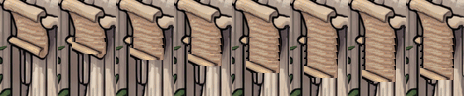
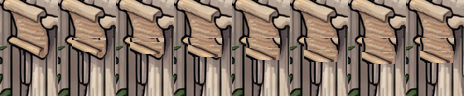
Syntax Citadel gate: rune boxes redrawn from the blue component bboxes so every string lights whole (no half-lit or edge-cut runes); scrolls unroll a modest 14px with the paper's own texture instead of a long ribbon. Stamp b20261110f.
Claude-Session: https://claude.ai/code/session_01Vj1nxmQmmwQb3qWB1ZfZZg

diff --git a/realm.html b/realm.html
@@ -7,10 +7,10 @@
 <meta name="theme-color" content="#16112b" />
 <title>Realm, ScoreQuest</title>
 <meta name="description" content="Walk the realm: a side-view stroll through one biome of the quest." />
-<link rel="stylesheet" href="css/style.css?v=b20261110e" />
+<link rel="stylesheet" href="css/style.css?v=b20261110f" />
 <link href="https://fonts.googleapis.com/css2?family=Pixelify+Sans:wght@400;600;700&display=swap" rel="stylesheet" />
-<link rel="stylesheet" href="assets/katex/katex.min.css?v=b20261110e" />
-<link rel="stylesheet" href="css/clash.css?v=b20261110e" />
+<link rel="stylesheet" href="assets/katex/katex.min.css?v=b20261110f" />
+<link rel="stylesheet" href="css/clash.css?v=b20261110f" />
 <link rel="icon" type="image/png" href="assets/logo.png" />
 </head>
 <body class="page-realm">
@@ -62,21 +62,21 @@
 </div>
 
 <script src="https://cdn.jsdelivr.net/npm/@supabase/supabase-js@2"></script>
-<script src="js/config.js?v=b20261110e"></script>
-<script src="js/auth.js?v=b20261110e"></script>
-<script src="js/paws.js?v=b20261110e"></script>
-<script src="js/sfx.js?v=b20261110e"></script>
-<script src="js/companion.js?v=b20261110e"></script>
-<script src="assets/katex/katex.min.js?v=b20261110e"></script>
-<script src="assets/katex/auto-render.min.js?v=b20261110e"></script>
-<script src="data/questions.js?v=b20261110e"></script>
-<script src="data/waypoints.js?v=b20261110e"></script>
-<script src="data/lessons.js?v=b20261110e"></script>
-<script src="js/figures.js?v=b20261110e"></script>
-<script src="js/questions.js?v=b20261110e"></script>
-<script src="js/qcard.js?v=b20261110e"></script>
-<script src="js/clash-arena.js?v=b20261110e"></script>
-<script src="js/clash-overlay.js?v=b20261110e"></script>
-<script src="js/realm.js?v=b20261110e"></script>
+<script src="js/config.js?v=b20261110f"></script>
+<script src="js/auth.js?v=b20261110f"></script>
+<script src="js/paws.js?v=b20261110f"></script>
+<script src="js/sfx.js?v=b20261110f"></script>
+<script src="js/companion.js?v=b20261110f"></script>
+<script src="assets/katex/katex.min.js?v=b20261110f"></script>
+<script src="assets/katex/auto-render.min.js?v=b20261110f"></script>
+<script src="data/questions.js?v=b20261110f"></script>
+<script src="data/waypoints.js?v=b20261110f"></script>
+<script src="data/lessons.js?v=b20261110f"></script>
+<script src="js/figures.js?v=b20261110f"></script>
+<script src="js/questions.js?v=b20261110f"></script>
+<script src="js/qcard.js?v=b20261110f"></script>
+<script src="js/clash-arena.js?v=b20261110f"></script>
+<script src="js/clash-overlay.js?v=b20261110f"></script>
+<script src="js/realm.js?v=b20261110f"></script>
 </body>
 </html>

diff --git a/js/realm.js b/js/realm.js
@@ -170,11 +170,11 @@
            blue runes round the arch and down both jambs glow, the gold emblem
            flares, and the two statues' scrolls unroll a hand's width
            (tools/make_scroll.py), rolling back up after he leaves */
-        { kind: 'frames', mode: 'rune', sheet: 'assets/fx/props/syntaxcitadel/archL.png', frames: 8, reach: 0.42, x: 0.80472, y: 0.00463, w: 0.08605, h: 0.24444, base: 0.243 },
-        { kind: 'frames', mode: 'rune', sheet: 'assets/fx/props/syntaxcitadel/archR.png', frames: 8, reach: 0.42, x: 0.88527, y: 0.00463, w: 0.06051, h: 0.24444, base: 0.243 },
+        { kind: 'frames', mode: 'rune', sheet: 'assets/fx/props/syntaxcitadel/archL.png', frames: 8, reach: 0.42, x: 0.82043, y: 0.00278, w: 0.06444, h: 0.14259, base: 0.139 },
+        { kind: 'frames', mode: 'rune', sheet: 'assets/fx/props/syntaxcitadel/archR.png', frames: 8, reach: 0.42, x: 0.87976, y: 0.00278, w: 0.05815, h: 0.25185, base: 0.248 },
         { kind: 'frames', mode: 'rune', sheet: 'assets/fx/props/syntaxcitadel/emblem.png', frames: 8, reach: 0.42, x: 0.86012, y: 0.0713, w: 0.04322, h: 0.09815, base: 0.163 },
-        { kind: 'frames', mode: 'rune', sheet: 'assets/fx/props/syntaxcitadel/colL.png', frames: 8, reach: 0.32, x: 0.82554, y: 0.20648, w: 0.022, h: 0.21852, base: 0.419 },
-        { kind: 'frames', mode: 'rune', sheet: 'assets/fx/props/syntaxcitadel/colR.png', frames: 8, reach: 0.32, x: 0.91081, y: 0.25741, w: 0.01925, h: 0.16759, base: 0.419 },
+        { kind: 'frames', mode: 'rune', sheet: 'assets/fx/props/syntaxcitadel/colL.png', frames: 8, reach: 0.32, x: 0.82633, y: 0.21204, w: 0.01807, h: 0.22407, base: 0.43 },
+        { kind: 'frames', mode: 'rune', sheet: 'assets/fx/props/syntaxcitadel/colR.png', frames: 8, reach: 0.32, x: 0.90963, y: 0.29722, w: 0.01493, h: 0.1, base: 0.391 },
         { kind: 'frames', mode: 'rune', sheet: 'assets/fx/props/syntaxcitadel/scroll1.png', frames: 8, reach: 0.3, x: 0.78743, y: 0.26667, w: 0.02279, h: 0.08889, base: 0.356 },
         { kind: 'frames', mode: 'rune', sheet: 'assets/fx/props/syntaxcitadel/scroll2.png', frames: 8, reach: 0.22, x: 0.90766, y: 0.38704, w: 0.02122, h: 0.1, base: 0.487 }
       ] },

diff --git a/clash.html b/clash.html
@@ -9,8 +9,8 @@
 <link rel="preconnect" href="https://fonts.googleapis.com" />
 <link rel="preconnect" href="https://fonts.gstatic.com" crossorigin />
 <link href="https://fonts.googleapis.com/css2?family=Pixelify+Sans:wght@400;600;700&display=swap" rel="stylesheet" />
-<link rel="stylesheet" href="assets/katex/katex.min.css?v=b20261110e" />
-<link rel="stylesheet" href="css/clash.css?v=b20261110e" />
+<link rel="stylesheet" href="assets/katex/katex.min.css?v=b20261110f" />
+<link rel="stylesheet" href="css/clash.css?v=b20261110f" />
 <style>
 :root {
   --bg: #efe9da; --card: #fffdf7; --ink: #2b2118; --muted: #6f6252; --line: #d9cfba;
@@ -131,16 +131,16 @@ body.focus .trail .here { display: none; }
 </main>
 
 <script defer src="https://cdn.jsdelivr.net/npm/@supabase/supabase-js@2"></script>
-<script defer src="assets/katex/katex.min.js?v=b20261110e"></script>
-<script defer src="assets/katex/auto-render.min.js?v=b20261110e"></script>
-<script defer src="js/config.js?v=b20261110e"></script>
-<script defer src="js/auth.js?v=b20261110e"></script>
-<script defer src="data/questions.js?v=b20261110e"></script>
-<script defer src="js/figures.js?v=b20261110e"></script>
-<script defer src="js/questions.js?v=b20261110e"></script>
-<script defer src="js/qcard.js?v=b20261110e"></script>
-<script defer src="js/clash-arena.js?v=b20261110e"></script>
-<script defer src="js/clash-ambient.js?v=b20261110e"></script>
-<script defer src="js/clash.js?v=b20261110e"></script>
+<script defer src="assets/katex/katex.min.js?v=b20261110f"></script>
+<script defer src="assets/katex/auto-render.min.js?v=b20261110f"></script>
+<script defer src="js/config.js?v=b20261110f"></script>
+<script defer src="js/auth.js?v=b20261110f"></script>
+<script defer src="data/questions.js?v=b20261110f"></script>
+<script defer src="js/figures.js?v=b20261110f"></script>
+<script defer src="js/questions.js?v=b20261110f"></script>
+<script defer src="js/qcard.js?v=b20261110f"></script>
+<script defer src="js/clash-arena.js?v=b20261110f"></script>
+<script defer src="js/clash-ambient.js?v=b20261110f"></script>
+<script defer src="js/clash.js?v=b20261110f"></script>
 </body>
 </html>

diff --git a/index.html b/index.html
@@ -13,7 +13,7 @@
    before first paint so navigation never flashes the marketing tabs */
 try { if (window.localStorage.getItem('sb-moasnmwcikwybriwaoip-auth-token')) document.documentElement.classList.add('is-authed'); } catch (e) {}
 </script>
-<link rel="stylesheet" href="css/style.css?v=b20261110e" />
+<link rel="stylesheet" href="css/style.css?v=b20261110f" />
 
 <link rel="icon" type="image/png" href="assets/logo.png" />
 </head>
@@ -479,16 +479,16 @@ try { if (window.localStorage.getItem('sb-moasnmwcikwybriwaoip-auth-token')) doc
 </footer>
 
 <script defer src="https://cdn.jsdelivr.net/npm/@supabase/supabase-js@2"></script>
-<script defer src="js/config.js?v=b20261110e"></script>
-<script defer src="js/auth.js?v=b20261110e"></script>
-<script defer src="js/usernav.js?v=b20261110e"></script>
-<script defer src="js/pixelworld.js?v=b20261110e"></script>
-<script defer src="js/game.js?v=b20261110e"></script>
-<script defer src="js/sfx.js?v=b20261110e"></script>
-<script defer src="data/questions.js?v=b20261110e"></script>
-<script defer src="js/questions.js?v=b20261110e"></script>
-<script defer src="js/map.js?v=b20261110e"></script>
-<script defer src="js/parents.js?v=b20261110e"></script>
-<script defer src="js/main.js?v=b20261110e"></script>
+<script defer src="js/config.js?v=b20261110f"></script>
+<script defer src="js/auth.js?v=b20261110f"></script>
+<script defer src="js/usernav.js?v=b20261110f"></script>
+<script defer src="js/pixelworld.js?v=b20261110f"></script>
+<script defer src="js/game.js?v=b20261110f"></script>
+<script defer src="js/sfx.js?v=b20261110f"></script>
+<script defer src="data/questions.js?v=b20261110f"></script>
+<script defer src="js/questions.js?v=b20261110f"></script>
+<script defer src="js/map.js?v=b20261110f"></script>
+<script defer src="js/parents.js?v=b20261110f"></script>
+<script defer src="js/main.js?v=b20261110f"></script>
 </body>
 </html>

diff --git a/boss.html b/boss.html
@@ -7,8 +7,8 @@
 <meta name="theme-color" content="#16112b" />
 <title>Boss fight, ScoreQuest</title>
 <meta name="description" content="The guardian at the end of the realm. Answer true, strike true." />
-<link rel="stylesheet" href="assets/katex/katex.min.css?v=b20261110e" />
-<link rel="stylesheet" href="css/style.css?v=b20261110e" />
+<link rel="stylesheet" href="assets/katex/katex.min.css?v=b20261110f" />
+<link rel="stylesheet" href="css/style.css?v=b20261110f" />
 <link rel="icon" type="image/png" href="assets/logo.png" />
 </head>
 <body class="page-boss">
@@ -118,16 +118,16 @@
 </div>
 
 <script src="https://cdn.jsdelivr.net/npm/@supabase/supabase-js@2"></script>
-<script src="js/config.js?v=b20261110e"></script>
-<script src="js/auth.js?v=b20261110e"></script>
-<script src="js/sfx.js?v=b20261110e"></script>
-<script src="js/companion.js?v=b20261110e"></script>
-<script src="assets/katex/katex.min.js?v=b20261110e"></script>
-<script src="assets/katex/auto-render.min.js?v=b20261110e"></script>
-<script src="data/questions.js?v=b20261110e"></script>
-<script src="js/figures.js?v=b20261110e"></script>
-<script src="js/questions.js?v=b20261110e"></script>
-<script src="js/qcard.js?v=b20261110e"></script>
-<script src="js/boss.js?v=b20261110e"></script>
+<script src="js/config.js?v=b20261110f"></script>
+<script src="js/auth.js?v=b20261110f"></script>
+<script src="js/sfx.js?v=b20261110f"></script>
+<script src="js/companion.js?v=b20261110f"></script>
+<script src="assets/katex/katex.min.js?v=b20261110f"></script>
+<script src="assets/katex/auto-render.min.js?v=b20261110f"></script>
+<script src="data/questions.js?v=b20261110f"></script>
+<script src="js/figures.js?v=b20261110f"></script>
+<script src="js/questions.js?v=b20261110f"></script>
+<script src="js/qcard.js?v=b20261110f"></script>
+<script src="js/boss.js?v=b20261110f"></script>
 </body>
 </html>

diff --git a/practice.html b/practice.html
@@ -10,8 +10,8 @@
 <script>
 try { if (window.localStorage.getItem('sb-moasnmwcikwybriwaoip-auth-token')) document.documentElement.classList.add('is-authed'); } catch (e) {}
 </script>
-<link rel="stylesheet" href="css/style.css?v=b20261110e" />
-<link rel="stylesheet" href="assets/katex/katex.min.css?v=b20261110e" />
+<link rel="stylesheet" href="css/style.css?v=b20261110f" />
+<link rel="stylesheet" href="assets/katex/katex.min.css?v=b20261110f" />
 <link rel="icon" type="image/png" href="assets/logo.png" />
 </head>
 <body class="page-map page-practice">
@@ -106,14 +106,14 @@ try { if (window.localStorage.getItem('sb-moasnmwcikwybriwaoip-auth-token')) doc
 </main>
 
 <script defer src="https://cdn.jsdelivr.net/npm/@supabase/supabase-js@2"></script>
-<script defer src="assets/katex/katex.min.js?v=b20261110e"></script>
-<script defer src="assets/katex/auto-render.min.js?v=b20261110e"></script>
-<script defer src="js/config.js?v=b20261110e"></script>
-<script defer src="js/auth.js?v=b20261110e"></script>
-<script defer src="js/usernav.js?v=b20261110e"></script>
-<script defer src="data/questions.js?v=b20261110e"></script>
-<script defer src="js/figures.js?v=b20261110e"></script>
-<script defer src="js/questions.js?v=b20261110e"></script>
-<script defer src="js/practice.js?v=b20261110e"></script>
+<script defer src="assets/katex/katex.min.js?v=b20261110f"></script>
+<script defer src="assets/katex/auto-render.min.js?v=b20261110f"></script>
+<script defer src="js/config.js?v=b20261110f"></script>
+<script defer src="js/auth.js?v=b20261110f"></script>
+<script defer src="js/usernav.js?v=b20261110f"></script>
+<script defer src="data/questions.js?v=b20261110f"></script>
+<script defer src="js/figures.js?v=b20261110f"></script>
+<script defer src="js/questions.js?v=b20261110f"></script>
+<script defer src="js/practice.js?v=b20261110f"></script>
 </body>
 </html>

diff --git a/map.html b/map.html
@@ -12,7 +12,7 @@
    before first paint so navigation never flashes the marketing tabs */
 try { if (window.localStorage.getItem('sb-moasnmwcikwybriwaoip-auth-token')) document.documentElement.classList.add('is-authed'); } catch (e) {}
 </script>
-<link rel="stylesheet" href="css/style.css?v=b20261110e" />
+<link rel="stylesheet" href="css/style.css?v=b20261110f" />
 <link rel="icon" type="image/png" href="assets/logo.png" />
 </head>
 <body class="page-map">
@@ -49,15 +49,15 @@ try { if (window.localStorage.getItem('sb-moasnmwcikwybriwaoip-auth-token')) doc
 </main>
 
 <script src="https://cdn.jsdelivr.net/npm/@supabase/supabase-js@2"></script>
-<script src="js/config.js?v=b20261110e"></script>
-<script src="js/auth.js?v=b20261110e"></script>
-<script src="js/usernav.js?v=b20261110e"></script>
-<script src="js/pixelworld.js?v=b20261110e"></script>
-<script src="js/game.js?v=b20261110e"></script>
-<script src="js/map.js?v=b20261110e"></script>
-<script src="js/sfx.js?v=b20261110e"></script>
-<script src="js/intro.js?v=b20261110e"></script>
-<script src="js/companion.js?v=b20261110e"></script>
-<script src="js/main.js?v=b20261110e"></script>
+<script src="js/config.js?v=b20261110f"></script>
+<script src="js/auth.js?v=b20261110f"></script>
+<script src="js/usernav.js?v=b20261110f"></script>
+<script src="js/pixelworld.js?v=b20261110f"></script>
+<script src="js/game.js?v=b20261110f"></script>
+<script src="js/map.js?v=b20261110f"></script>
+<script src="js/sfx.js?v=b20261110f"></script>
+<script src="js/intro.js?v=b20261110f"></script>
+<script src="js/companion.js?v=b20261110f"></script>
+<script src="js/main.js?v=b20261110f"></script>
 </body>
 </html>

diff --git a/checkout.html b/checkout.html
@@ -12,7 +12,7 @@
    before first paint so navigation never flashes the marketing tabs */
 try { if (window.localStorage.getItem('sb-moasnmwcikwybriwaoip-auth-token')) document.documentElement.classList.add('is-authed'); } catch (e) {}
 </script>
-<link rel="stylesheet" href="css/style.css?v=b20261110e" />
+<link rel="stylesheet" href="css/style.css?v=b20261110f" />
 <link rel="icon" type="image/png" href="assets/logo.png" />
 </head>
 <body class="page-checkout">
@@ -114,11 +114,11 @@ try { if (window.localStorage.getItem('sb-moasnmwcikwybriwaoip-auth-token')) doc
 </footer>
 
 <script src="https://cdn.jsdelivr.net/npm/@supabase/supabase-js@2"></script>
-<script src="js/config.js?v=b20261110e"></script>
-<script src="js/auth.js?v=b20261110e"></script>
-<script src="js/usernav.js?v=b20261110e"></script>
-<script src="js/sfx.js?v=b20261110e"></script>
-<script src="js/checkout.js?v=b20261110e"></script>
-<script src="js/main.js?v=b20261110e"></script>
+<script src="js/config.js?v=b20261110f"></script>
+<script src="js/auth.js?v=b20261110f"></script>
+<script src="js/usernav.js?v=b20261110f"></script>
+<script src="js/sfx.js?v=b20261110f"></script>
+<script src="js/checkout.js?v=b20261110f"></script>
+<script src="js/main.js?v=b20261110f"></script>
 </body>
 </html>

diff --git a/bookmarks.html b/bookmarks.html
@@ -10,7 +10,7 @@
 <script>
 try { if (window.localStorage.getItem('sb-moasnmwcikwybriwaoip-auth-token')) document.documentElement.classList.add('is-authed'); } catch (e) {}
 </script>
-<link rel="stylesheet" href="css/style.css?v=b20261110e" />
+<link rel="stylesheet" href="css/style.css?v=b20261110f" />
 <link rel="icon" type="image/png" href="assets/logo.png" />
 </head>
 <body class="page-map" data-account-page="bookmarks">
@@ -41,10 +41,10 @@ try { if (window.localStorage.getItem('sb-moasnmwcikwybriwaoip-auth-token')) doc
 </main>
 
 <script defer src="https://cdn.jsdelivr.net/npm/@supabase/supabase-js@2"></script>
-<script defer src="js/config.js?v=b20261110e"></script>
-<script defer src="js/auth.js?v=b20261110e"></script>
-<script defer src="js/usernav.js?v=b20261110e"></script>
-<script defer src="js/sfx.js?v=b20261110e"></script>
-<script defer src="js/account-pages.js?v=b20261110e"></script>
+<script defer src="js/config.js?v=b20261110f"></script>
+<script defer src="js/auth.js?v=b20261110f"></script>
+<script defer src="js/usernav.js?v=b20261110f"></script>
+<script defer src="js/sfx.js?v=b20261110f"></script>
+<script defer src="js/account-pages.js?v=b20261110f"></script>
 </body>
 </html>

diff --git a/settings.html b/settings.html
@@ -10,7 +10,7 @@
 <script>
 try { if (window.localStorage.getItem('sb-moasnmwcikwybriwaoip-auth-token')) document.documentElement.classList.add('is-authed'); } catch (e) {}
 </script>
-<link rel="stylesheet" href="css/style.css?v=b20261110e" />
+<link rel="stylesheet" href="css/style.css?v=b20261110f" />
 <link rel="icon" type="image/png" href="assets/logo.png" />
 </head>
 <body class="page-map" data-account-page="settings">
@@ -66,10 +66,10 @@ try { if (window.localStorage.getItem('sb-moasnmwcikwybriwaoip-auth-token')) doc
 </main>
 
 <script defer src="https://cdn.jsdelivr.net/npm/@supabase/supabase-js@2"></script>
-<script defer src="js/config.js?v=b20261110e"></script>
-<script defer src="js/auth.js?v=b20261110e"></script>
-<script defer src="js/usernav.js?v=b20261110e"></script>
-<script defer src="js/sfx.js?v=b20261110e"></script>
-<script defer src="js/account-pages.js?v=b20261110e"></script>
+<script defer src="js/config.js?v=b20261110f"></script>
+<script defer src="js/auth.js?v=b20261110f"></script>
+<script defer src="js/usernav.js?v=b20261110f"></script>
+<script defer src="js/sfx.js?v=b20261110f"></script>
+<script defer src="js/account-pages.js?v=b20261110f"></script>
 </body>
 </html>

diff --git a/profile.html b/profile.html
@@ -10,7 +10,7 @@
 <script>
 try { if (window.localStorage.getItem('sb-moasnmwcikwybriwaoip-auth-token')) document.documentElement.classList.add('is-authed'); } catch (e) {}
 </script>
-<link rel="stylesheet" href="css/style.css?v=b20261110e" />
+<link rel="stylesheet" href="css/style.css?v=b20261110f" />
 <link rel="icon" type="image/png" href="assets/logo.png" />
 </head>
 <body class="page-map" data-account-page="profile">
@@ -87,10 +87,10 @@ try { if (window.localStorage.getItem('sb-moasnmwcikwybriwaoip-auth-token')) doc
 </main>
 
 <script defer src="https://cdn.jsdelivr.net/npm/@supabase/supabase-js@2"></script>
-<script defer src="js/config.js?v=b20261110e"></script>
-<script defer src="js/auth.js?v=b20261110e"></script>
-<script defer src="js/usernav.js?v=b20261110e"></script>
-<script defer src="js/sfx.js?v=b20261110e"></script>
-<script defer src="js/account-pages.js?v=b20261110e"></script>
+<script defer src="js/config.js?v=b20261110f"></script>
+<script defer src="js/auth.js?v=b20261110f"></script>
+<script defer src="js/usernav.js?v=b20261110f"></script>
+<script defer src="js/sfx.js?v=b20261110f"></script>
+<script defer src="js/account-pages.js?v=b20261110f"></script>
 </body>
 </html>

diff --git a/parents.html b/parents.html
@@ -12,7 +12,7 @@
    before first paint so navigation never flashes the marketing tabs */
 try { if (window.localStorage.getItem('sb-moasnmwcikwybriwaoip-auth-token')) document.documentElement.classList.add('is-authed'); } catch (e) {}
 </script>
-<link rel="stylesheet" href="css/style.css?v=b20261110e" />
+<link rel="stylesheet" href="css/style.css?v=b20261110f" />
 <link rel="icon" type="image/png" href="assets/logo.png" />
 </head>
 <body class="page-parents">
@@ -162,10 +162,10 @@ try { if (window.localStorage.getItem('sb-moasnmwcikwybriwaoip-auth-token')) doc
 </footer>
 
 <script src="https://cdn.jsdelivr.net/npm/@supabase/supabase-js@2"></script>
-<script src="js/config.js?v=b20261110e"></script>
-<script src="js/auth.js?v=b20261110e"></script>
-<script src="js/usernav.js?v=b20261110e"></script>
-<script src="js/sfx.js?v=b20261110e"></script>
-<script src="js/main.js?v=b20261110e"></script>
+<script src="js/config.js?v=b20261110f"></script>
+<script src="js/auth.js?v=b20261110f"></script>
+<script src="js/usernav.js?v=b20261110f"></script>
+<script src="js/sfx.js?v=b20261110f"></script>
+<script src="js/main.js?v=b20261110f"></script>
 </body>
 </html>
